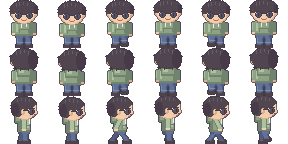
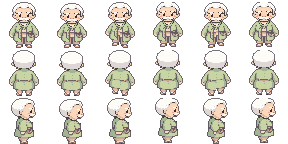
대장장이 · 연금술사를 사용자 AI 그림으로 교체
- 대장장이: 반백 머리 · 머리띠 수건 · 흰 반팔 · 가죽 앞치마 (smith_patch.json 둥근 눈)
- 연금술사: 흰 머리 · 콧수염 할아버지 · 쑥색 두루마기 · 약주머니 (alchemist_patch.json)
- import_ai_character.py 손질 JSON 에 neutral_purple(회색 머리 그늘의 보랏빛 제거) · hue_shift(누렇게 뜬 옷 색 되돌리기) 추가

Claude-Session: https://claude.ai/code/session_01N66MPVihfuKcLdBMZMa38e

diff --git a/tools/import_ai_character.py b/tools/import_ai_character.py
@@ -263,10 +263,29 @@ def outline_color(c):
 
 
 def apply_patch(views, patch):
-    """patch: {"colors": {"r": [r,g,b], ...}, "down": [{"at": [x, y], "rows": ["..rr..", ...]}], "up": [...], "side": [...]}
+    """patch: {"neutral_purple": true (선택), "hue_shift": [[h0, h1, dh, sat]] (선택), "colors": {"r": [r,g,b], ...}, "down": [{"at": [x, y], "rows": ["..rr..", ...]}], "up": [...], "side": [...]}
     rows 의 글자 하나가 픽셀 하나, '.' 는 그대로 둔다."""
     cols = {k: tuple(v) + (255,) for k, v in patch.get("colors", {}).items()}
     for view, img in views.items():
+        for h0, h1, dh, smul in patch.get("hue_shift", []):
+            # [시작 색상각, 끝 색상각, 옮길 각도, 채도 배율]: P1 보정에서 누렇게 뜬 옷 색을 제 색으로 (예: 쑥색 두루마기)
+            px = img.load()
+            for y in range(img.height):
+                for x in range(img.width):
+                    r, g, b, a = px[x, y]
+                    hh, ss, vv = colorsys.rgb_to_hsv(r / 255, g / 255, b / 255)
+                    if a and ss > 0.12 and h0 <= hh * 360 <= h1:
+                        nr, ng, nb = colorsys.hsv_to_rgb((hh + dh / 360) % 1, min(1, ss * smul), vv)
+                        px[x, y] = (round(nr * 255), round(ng * 255), round(nb * 255), a)
+        if patch.get("neutral_purple"):
+            # 회색 · 흰 머리의 짙은 그늘이 P1 보정에서 보랏빛이 되는 것을 같은 밝기의 따뜻한 회색으로 되돌린다
+            px = img.load()
+            for y in range(img.height):
+                for x in range(img.width):
+                    r, g, b, a = px[x, y]
+                    if a and b > r + 8 and b > g + 20:
+                        l = int(lum((r, g, b)))
+                        px[x, y] = (min(255, l + 10), l, max(0, l - 4), a)
         for block in patch.get(view, []):
             x0, y0 = block["at"]
             for j, row in enumerate(block["rows"]):
